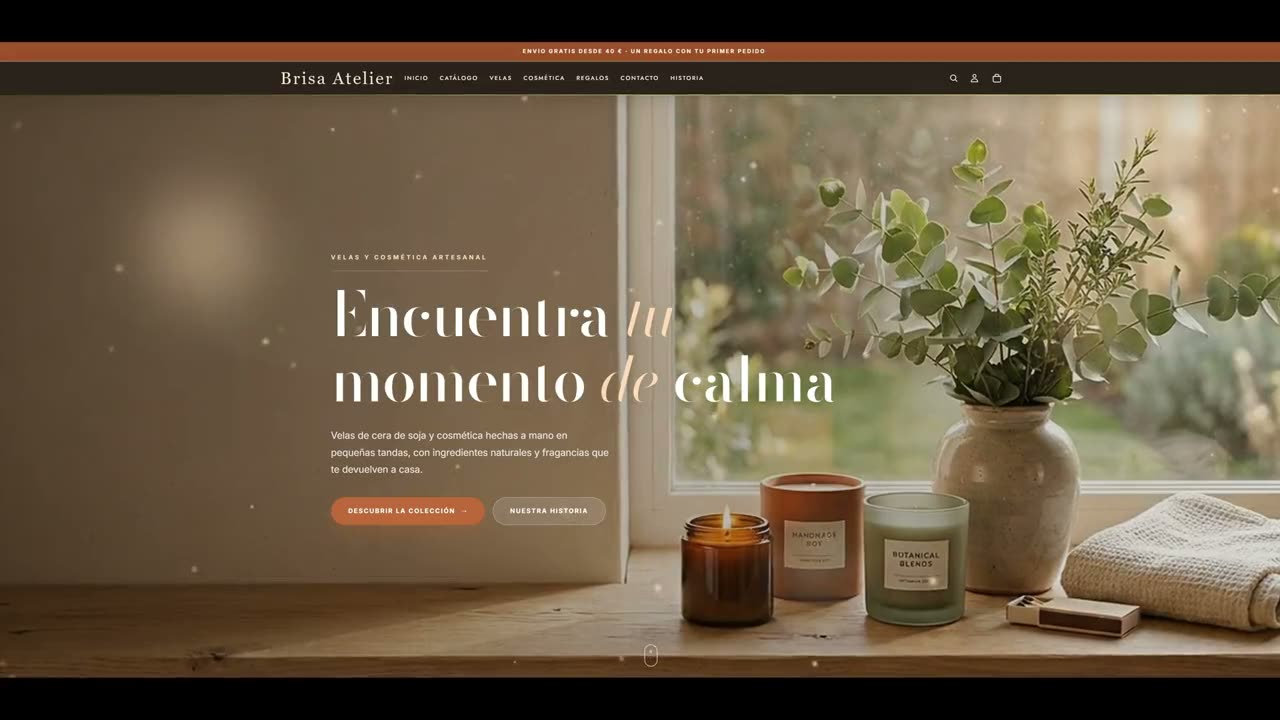
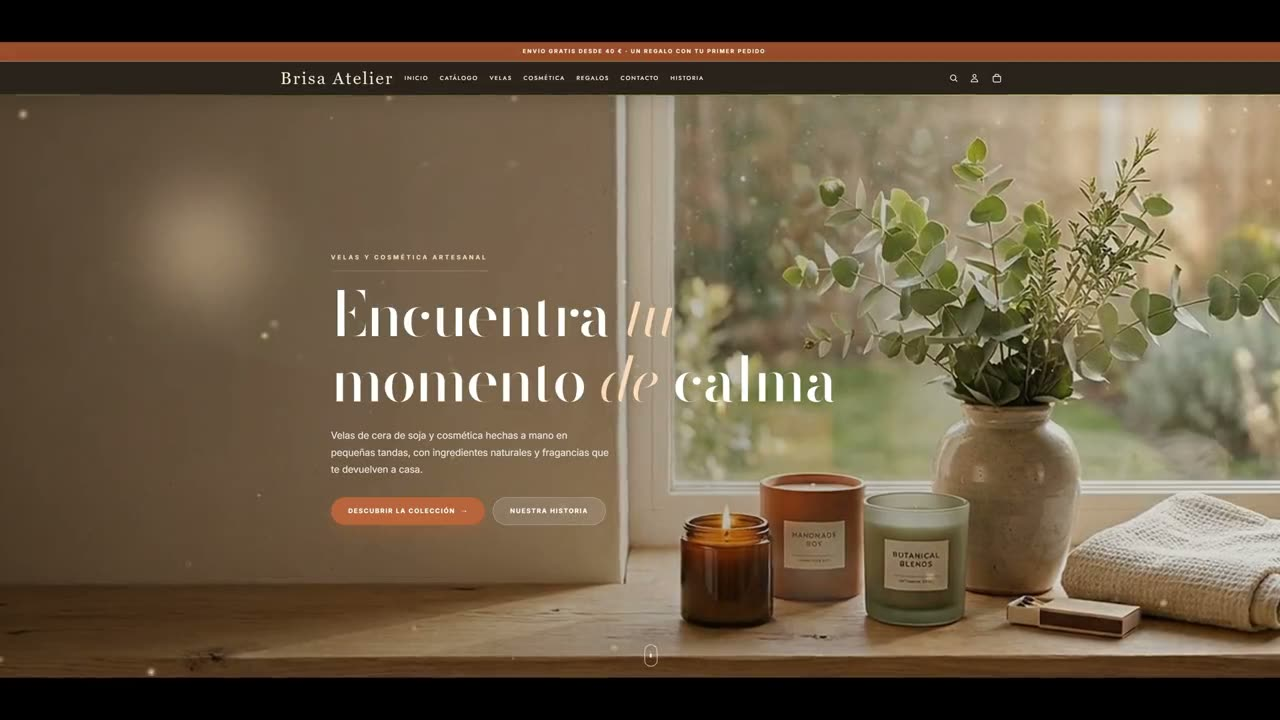
Hero de la tienda: arranque del video mas robusto y foto de portada nitida

diff --git a/tienda-online.html b/tienda-online.html
@@ -1098,5 +1098,12 @@ if(!window.matchMedia('(prefers-reduced-motion: reduce)').matches){
   }
 }
 </script>
+<script>
+(function(){var v=document.querySelector('.lp-hvid');if(!v)return;
+var go=function(){var p=v.play();if(p&&p.catch)p.catch(function(){});};
+go();v.addEventListener('loadeddata',go);
+['touchstart','click','scroll'].forEach(function(e){window.addEventListener(e,go,{once:true,passive:true});});
+document.addEventListener('visibilitychange',function(){if(!document.hidden)go();});})();
+</script>
 </body>
 </html>
